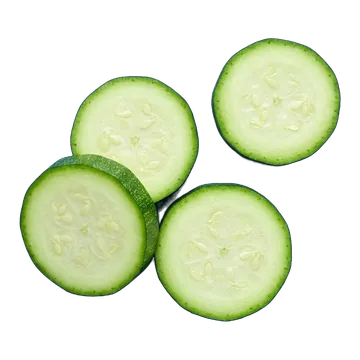
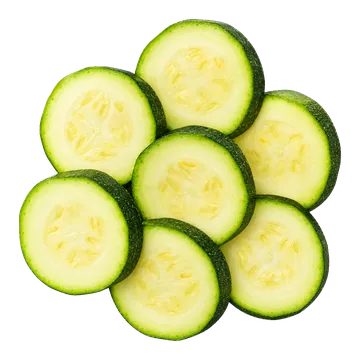
Fotorealistisk skål, nye billeder af squash og æble
Claude-Session: https://claude.ai/code/session_01WZ3rcJ382stsMFGzGBwaQH

diff --git a/index.html b/index.html
@@ -22,13 +22,12 @@
         <h1>Salad shaker</h1>
         <p class="intro">Tryk på Shake, så vælger vi én ingrediens fra hver kategori.</p>
       </header>
-      <svg id="skaal" class="skaal" viewBox="24 45 352 245" role="img" aria-labelledby="skaal-titel">
+      <svg id="skaal" class="skaal" viewBox="24 45 352 225" role="img" aria-labelledby="skaal-titel">
         <title id="skaal-titel">Skål med salat</title>
-        <ellipse class="skaal-bund-skygge" cx="200" cy="275" rx="120" ry="10"></ellipse>
-        <ellipse class="skaal-inde" cx="200" cy="132" rx="170" ry="42"></ellipse>
+        <ellipse class="skaal-bund-skygge" cx="200" cy="258" rx="105" ry="8"></ellipse>
+        <image href="billeder/skaal-bag.webp" x="27" y="92.2" width="346.2" height="167.9"></image>
         <g id="indhold"></g>
-        <path class="skaal-front" d="M30 132 C 34 222, 118 268, 200 268 C 282 268, 366 222, 370 132 C 318 170, 82 170, 30 132 Z"></path>
-        <path class="skaal-kant" d="M30 132 C 82 170, 318 170, 370 132"></path>
+        <image href="billeder/skaal-for.webp" x="27" y="92.2" width="346.2" height="167.9"></image>
       </svg>
       <button id="shake" class="shake-knap" type="button">Shake</button>
       <p class="antal"><span id="antal"></span> · <button id="del" class="del-knap" type="button">Del salat</button> <span id="del-status" class="del-status" aria-live="polite"></span></p>

diff --git a/style.css b/style.css
@@ -83,9 +83,6 @@ body {
 }
 .top { justify-self: stretch; text-align: center; }
 .skaal { width: 100%; height: auto; overflow: visible; margin-top: 1rem; }
-.skaal-inde { fill: var(--skaal-inde); stroke: var(--skaal-kant); stroke-width: 3; }
-.skaal-front { fill: var(--skaal); }
-.skaal-kant { fill: none; stroke: var(--skaal-kant); stroke-width: 4; stroke-linecap: round; }
 .skaal-bund-skygge { fill: var(--skygge); }
 .skaal text { font-family: "Apple Color Emoji", "Segoe UI Emoji", "Noto Color Emoji", sans-serif; dominant-baseline: central; text-anchor: middle; }
 .dressing { fill: none; stroke-linecap: round; stroke-linejoin: round; opacity: 0.9; }
